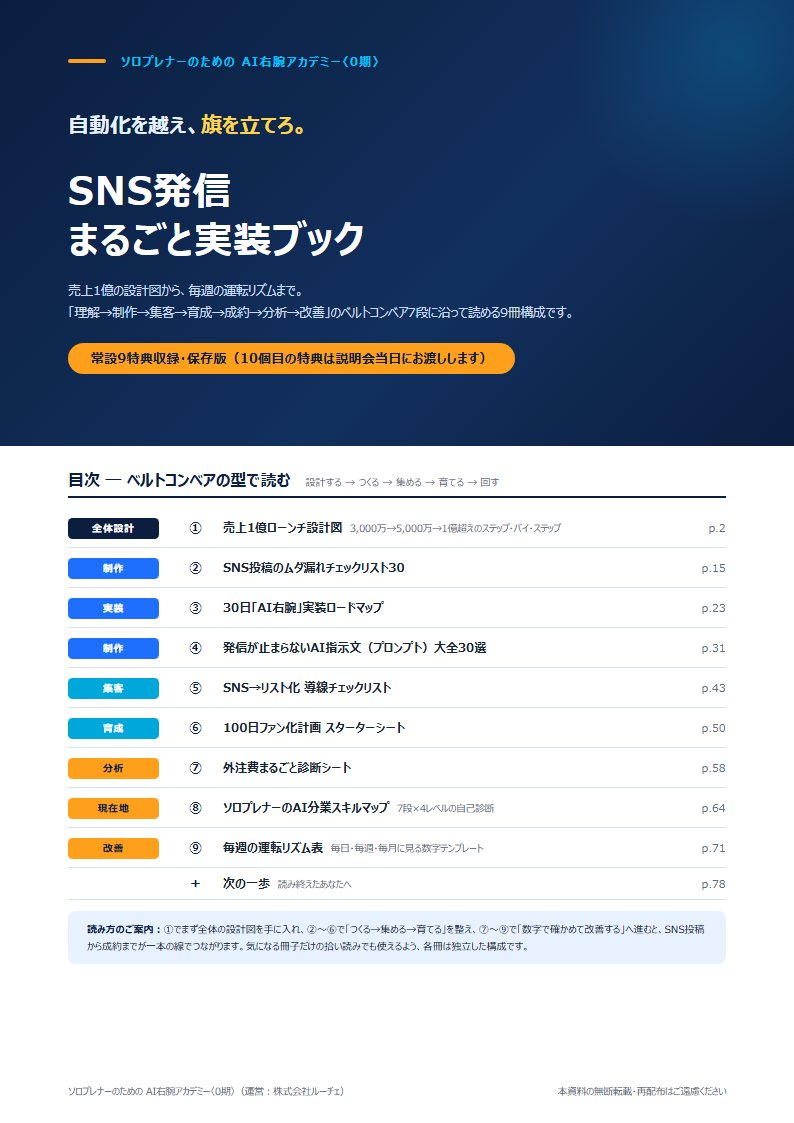
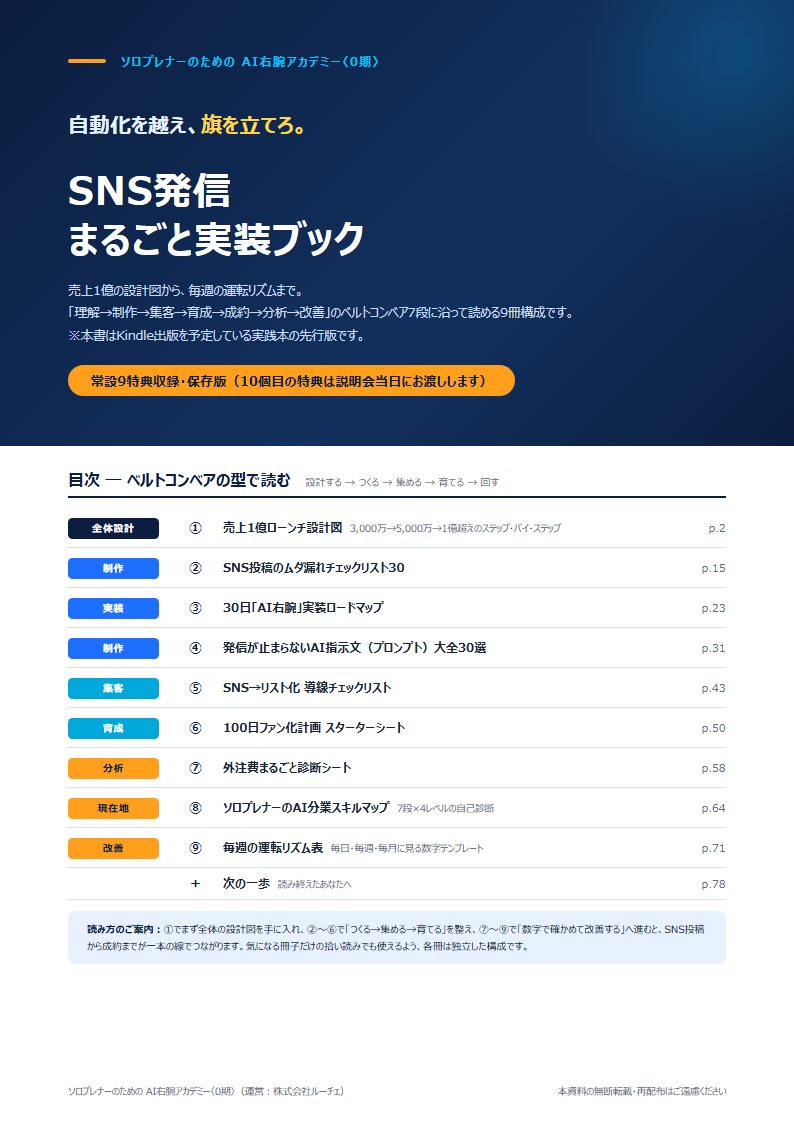
一貫性改修：Kindle出版予定の明記・2冊目を加速したい瞬間の位置づけに・装丁画像更新（本のCTAは説明会LPへ変更済み）

Changed region(s): [[0.0605, 0.2805, 0.665, 0.374]]

diff --git a/r/a97c30d5f2/index.html b/r/a97c30d5f2/index.html
@@ -834,7 +834,7 @@
       <img src="assets/book-cover.jpg" alt="特典本『SNS発信まるごと実装ブック』の表紙。全78ページ・9冊構成・しおり付き" style="width:172px;border-radius:6px;box-shadow:0 12px 28px rgba(11,30,63,.35);transform:rotate(-2deg);flex:none;">
       <div style="flex:1;min-width:240px;">
         <p>集客・制作・分析・改善に、そのまま使える9つの実務特典を、<b>1冊の実践キンドル本『SNS発信まるごと実装ブック』（全78ページ）</b>にまとめてお渡しします。</p>
-        <p class="muted">左が実物の装丁です。9冊構成・目次しおり付きの保存版。冒頭には「1億の前に、まず最初の1件」から始める道案内を収録しています。</p>
+        <p class="muted">左が実物の装丁です。9冊構成・目次しおり付きの保存版で、Kindle出版を予定している実践本を参加者に先行してお渡しします。冒頭には「1億の前に、まず最初の1件」から始める道案内を収録しています。</p>
       </div>
     </div>
     <ol class="bonus-list">
@@ -853,7 +853,7 @@
       <h3 style="margin-bottom:6px;">あなたの商品で"その場生成"体験</h3>
       <p style="font-size:14.5px;margin:0;">セミナー当日、参加者の商材を使ってAIが<b>LP見出し＋バナー案3点</b>をその場で生成。そのまま持ち帰れます。</p>
     </div>
-    <p style="font-size:13.5px;margin-top:14px;">さらに——広告を"使う段階"（月商100万規模〜）に進んだ方には、<b>2冊目『広告運用まるごと攻略ブック』（67ページ）</b>もご用意しています。順番に受け取ってください。</p>
+    <p style="font-size:13.5px;margin-top:14px;">さらに——発信が回りはじめて<b>「もっと加速したい」と広告を使いたくなった瞬間</b>のために、<b>2冊目『広告運用まるごと攻略ブック』（67ページ）</b>もご用意しています。順番に受け取ってください。</p>
   </div>
 </section>
 
